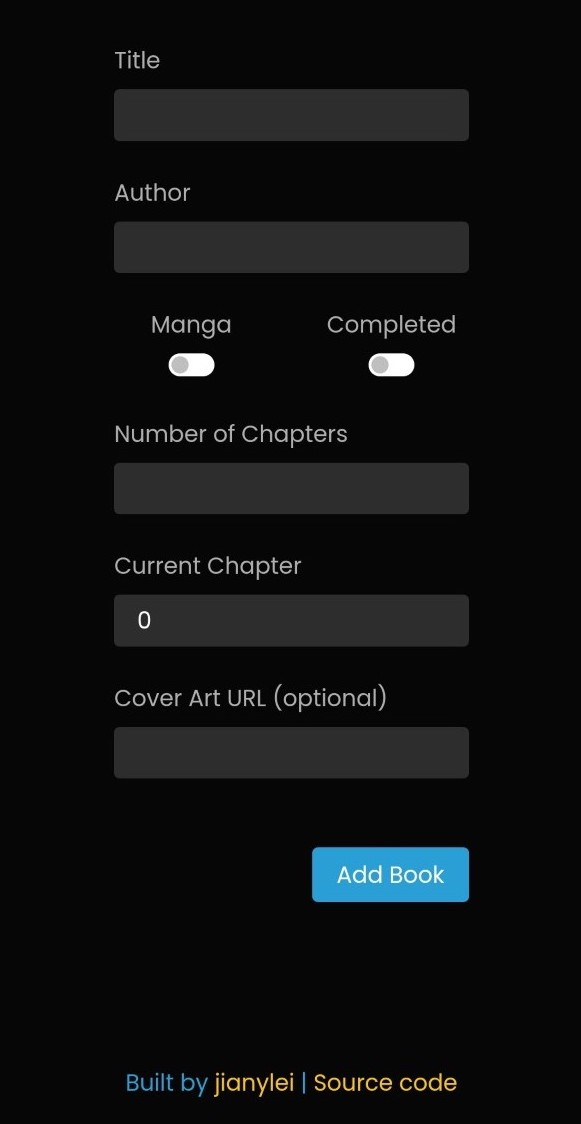
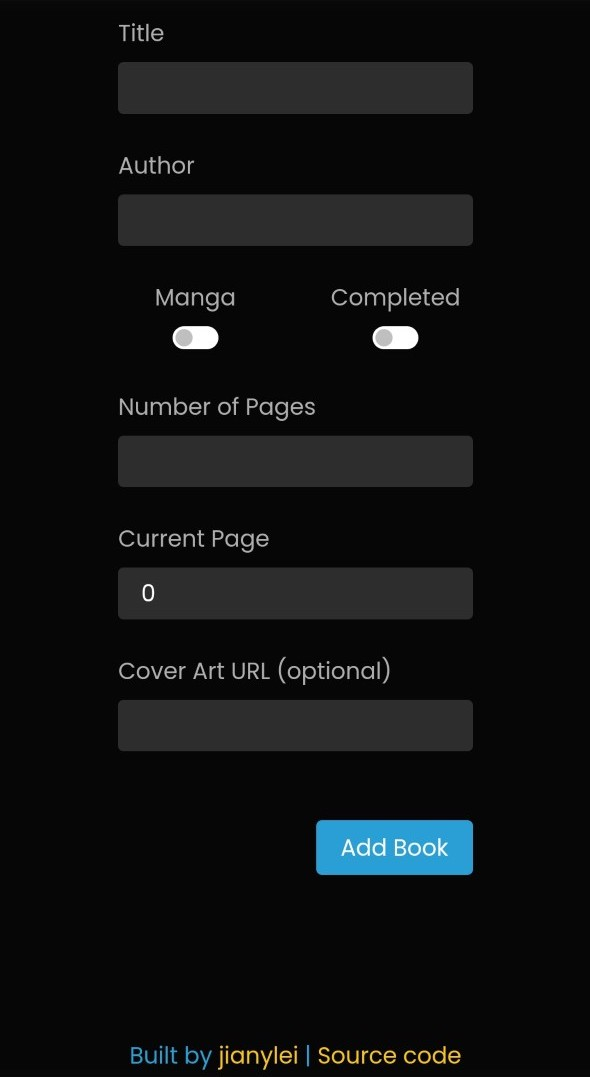
updated mobile ss

diff --git a/app.js b/app.js
@@ -297,13 +297,13 @@ class Storage{
         let books;
         if(!localStorage.getItem("books")){
             books = [{
-                title: "Dragon Ball (sample data*)",
-                author: "Akira Toriyama",
+                title: "Tokyo Ghoul (sample data*)",
+                author: "Sui Ishida",
                 manga: true,
                 completed: true,
-                pages: "194",
-                read: "194",
-                url: "https://images-na.ssl-images-amazon.com/images/I/81Dy6cNM7yL.jpg"
+                pages: "179",
+                read: "179",
+                url: "https://static.wikia.nocookie.net/tokyoghoul/images/6/6a/Volume_01.jpg/revision/latest?cb=20161203075330"
             }];
         }
         else{
